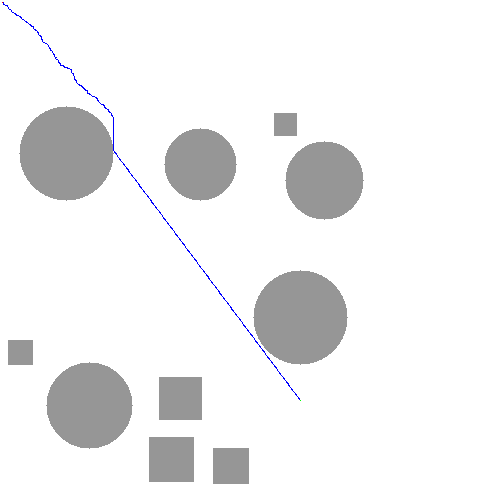
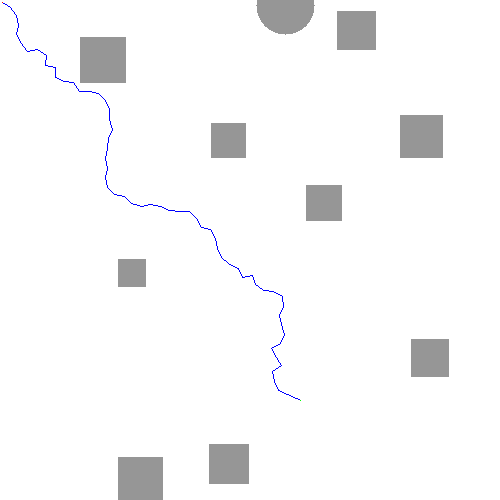
update rrt_star

diff --git a/planning/pp2d/rrt_star.py b/planning/pp2d/rrt_star.py
@@ -1,0 +1,219 @@
+"""
+rrt_connect.py
+
+This file implements the RRT-connect algorithm in 2D space.
+It generates a feasible path for a robot to navigate from a start point to a goal point,
+avoiding obstacles in the environment.
+
+Original Author: Huiming Zhou
+
+Modified by: universea
+
+"""
+
+import os
+import sys
+import math
+import numpy as np
+from planning.pp2d.utils import QueueFIFO
+
+
+
+class Node:
+    def __init__(self, n):
+        self.x = n[0]
+        self.y = n[1]
+        self.parent = None
+
+
+class RRTStar:
+    def __init__(self, env, x_start, x_goal, step_len,
+                 goal_sample_rate, search_radius, iter_max):
+        self.s_start = Node(x_start)
+        self.s_goal = Node(x_goal)
+        self.step_len = step_len
+        self.goal_sample_rate = goal_sample_rate
+        self.search_radius = search_radius
+        self.iter_max = iter_max
+        self.vertex = [self.s_start]
+        self.path = []
+
+        self.env = env
+        self.x_range = (0, self.env.shape[1])
+        self.y_range = (0, self.env.shape[0])
+
+    def is_collision(self, node_start, node_end):
+        delta = self.step_len
+        x_start, y_start = int(node_start.x), int(node_start.y)
+        x_end, y_end = int(node_end.x), int(node_end.y)
+
+        dx = abs(x_end - x_start)
+        dy = abs(y_end - y_start)
+
+        if dx == 0 and dy == 0:
+            return self.env[y_start, x_start] >= 1
+
+        if dx > dy:
+            x, y = x_start, y_start
+            x_step = 1 if x_end > x_start else -1
+            y_step = dy / dx if y_end > y_start else -dy / dx
+
+            while x != x_end:
+                if self.env[int(round(y)), x] >= 1:
+                    return True
+                x += x_step
+                y += y_step
+        else:
+            x, y = x_start, y_start
+            y_step = 1 if y_end > y_start else -1
+            x_step = dx / dy if x_end > x_start else -dx / dy
+
+            while y != y_end:
+                if self.env[y, int(round(x))] >= 1:
+                    return True
+                x += x_step
+                y += y_step
+
+        return False
+
+    def planning(self):
+        for k in range(self.iter_max):
+            node_rand = self.generate_random_node(self.goal_sample_rate)
+            node_near = self.nearest_neighbor(self.vertex, node_rand)
+            node_new = self.new_state(node_near, node_rand)
+
+            if k % 500 == 0:
+                print(k)
+
+            if node_new and not self.is_collision(node_near, node_new):
+                neighbor_index = self.find_near_neighbor(node_new)
+                self.vertex.append(node_new)
+
+                if neighbor_index:
+                    self.choose_parent(node_new, neighbor_index)
+                    self.rewire(node_new, neighbor_index)
+
+        index = self.search_goal_parent()
+        self.path = self.extract_path(self.vertex[index])
+
+        return self.path
+
+        #self.plotting.animation(self.vertex, self.path, "rrt*, N = " + str(self.iter_max))
+
+    def new_state(self, node_start, node_goal):
+        dist, theta = self.get_distance_and_angle(node_start, node_goal)
+
+        dist = min(self.step_len, dist)
+        node_new = Node((node_start.x + dist * math.cos(theta),
+                         node_start.y + dist * math.sin(theta)))
+
+        node_new.parent = node_start
+
+        return node_new
+
+    def choose_parent(self, node_new, neighbor_index):
+        cost = [self.get_new_cost(self.vertex[i], node_new) for i in neighbor_index]
+
+        cost_min_index = neighbor_index[int(np.argmin(cost))]
+        node_new.parent = self.vertex[cost_min_index]
+
+    def rewire(self, node_new, neighbor_index):
+        for i in neighbor_index:
+            node_neighbor = self.vertex[i]
+
+            if self.cost(node_neighbor) > self.get_new_cost(node_new, node_neighbor):
+                node_neighbor.parent = node_new
+
+    def search_goal_parent(self):
+        dist_list = [math.hypot(n.x - self.s_goal.x, n.y - self.s_goal.y) for n in self.vertex]
+        node_index = [i for i in range(len(dist_list)) if dist_list[i] <= self.step_len]
+
+        if len(node_index) > 0:
+            cost_list = [dist_list[i] + self.cost(self.vertex[i]) for i in node_index
+                         if not self.is_collision(self.vertex[i], self.s_goal)]
+            return node_index[int(np.argmin(cost_list))]
+
+        return len(self.vertex) - 1
+
+    def get_new_cost(self, node_start, node_end):
+        dist, _ = self.get_distance_and_angle(node_start, node_end)
+
+        return self.cost(node_start) + dist
+
+    def generate_random_node(self, goal_sample_rate):
+        delta = 0.5
+
+        if np.random.random() > goal_sample_rate:
+            return Node((np.random.uniform(self.x_range[0] + delta, self.x_range[1] - delta),
+                         np.random.uniform(self.y_range[0] + delta, self.y_range[1] - delta)))
+
+        return self.s_goal
+
+    def find_near_neighbor(self, node_new):
+        n = len(self.vertex) + 1
+        r = min(self.search_radius * math.sqrt((math.log(n) / n)), self.step_len)
+
+        dist_table = [math.hypot(nd.x - node_new.x, nd.y - node_new.y) for nd in self.vertex]
+        dist_table_index = [ind for ind in range(len(dist_table)) if dist_table[ind] <= r and
+                            not self.is_collision(node_new, self.vertex[ind])]
+
+        return dist_table_index
+
+    @staticmethod
+    def nearest_neighbor(node_list, n):
+        return node_list[int(np.argmin([math.hypot(nd.x - n.x, nd.y - n.y)
+                                        for nd in node_list]))]
+
+    @staticmethod
+    def cost(node_p):
+        node = node_p
+        cost = 0.0
+
+        while node.parent:
+            cost += math.hypot(node.x - node.parent.x, node.y - node.parent.y)
+            node = node.parent
+
+        return cost
+
+    def update_cost(self, parent_node):
+        OPEN = QueueFIFO()
+        OPEN.put(parent_node)
+
+        while not OPEN.empty():
+            node = OPEN.get()
+
+            if len(node.child) == 0:
+                continue
+
+            for node_c in node.child:
+                node_c.Cost = self.get_new_cost(node, node_c)
+                OPEN.put(node_c)
+
+    def extract_path(self, node_end):
+        path = [[self.s_goal.x, self.s_goal.y]]
+        node = node_end
+
+        while node.parent is not None:
+            path.append([node.x, node.y])
+            node = node.parent
+        path.append([node.x, node.y])
+
+        return path
+
+    @staticmethod
+    def get_distance_and_angle(node_start, node_end):
+        dx = node_end.x - node_start.x
+        dy = node_end.y - node_start.y
+        return math.hypot(dx, dy), math.atan2(dy, dx)
+
+
+def main():
+    x_start = (18, 8)  # Starting node
+    x_goal = (37, 18)  # Goal node
+
+    rrt_star = RrtStar(x_start, x_goal, 10, 0.10, 20, 10000)
+    rrt_star.planning()
+
+
+if __name__ == '__main__':
+    main()

diff --git a/planning/pp2d/utils.py b/planning/pp2d/utils.py
@@ -1,0 +1,62 @@
+import collections
+import heapq
+
+
+class QueueFIFO:
+    """
+    Class: QueueFIFO
+    Description: QueueFIFO is designed for First-in-First-out rule.
+    """
+
+    def __init__(self):
+        self.queue = collections.deque()
+
+    def empty(self):
+        return len(self.queue) == 0
+
+    def put(self, node):
+        self.queue.append(node)  # enter from back
+
+    def get(self):
+        return self.queue.popleft()  # leave from front
+
+
+class QueueLIFO:
+    """
+    Class: QueueLIFO
+    Description: QueueLIFO is designed for Last-in-First-out rule.
+    """
+
+    def __init__(self):
+        self.queue = collections.deque()
+
+    def empty(self):
+        return len(self.queue) == 0
+
+    def put(self, node):
+        self.queue.append(node)  # enter from back
+
+    def get(self):
+        return self.queue.pop()  # leave from back
+
+
+class QueuePrior:
+    """
+    Class: QueuePrior
+    Description: QueuePrior reorders elements using value [priority]
+    """
+
+    def __init__(self):
+        self.queue = []
+
+    def empty(self):
+        return len(self.queue) == 0
+
+    def put(self, item, priority):
+        heapq.heappush(self.queue, (priority, item))  # reorder s using priority
+
+    def get(self):
+        return heapq.heappop(self.queue)[1]  # pop out the smallest item
+
+    def enumerate(self):
+        return self.queue

diff --git a/examples.py b/examples.py
@@ -14,6 +14,7 @@ from planning.pp2d.env import Environments
 
 from planning.pp2d.rrt import RRT
 from planning.pp2d.rrt_connect import RRTConnect
+from planning.pp2d.rrt_star import RRTStar
 
 if __name__ == '__main__':
 
@@ -28,7 +29,8 @@ if __name__ == '__main__':
                                            min_side_length=20, max_side_length=50)
 
     #planner = RRT(env, x_start, x_goal, 0.5, 0.05, 10000)
-    planner = RRTConnect(env, x_start, x_goal, 0.8, 0.05, 5000)
+    #planner = RRTConnect(env, x_start, x_goal, 0.8, 0.05, 5000)
+    planner = RRTStar(env, x_start, x_goal, 10, 0.10, 20, 10000)
 
     path = planner.planning()
 
